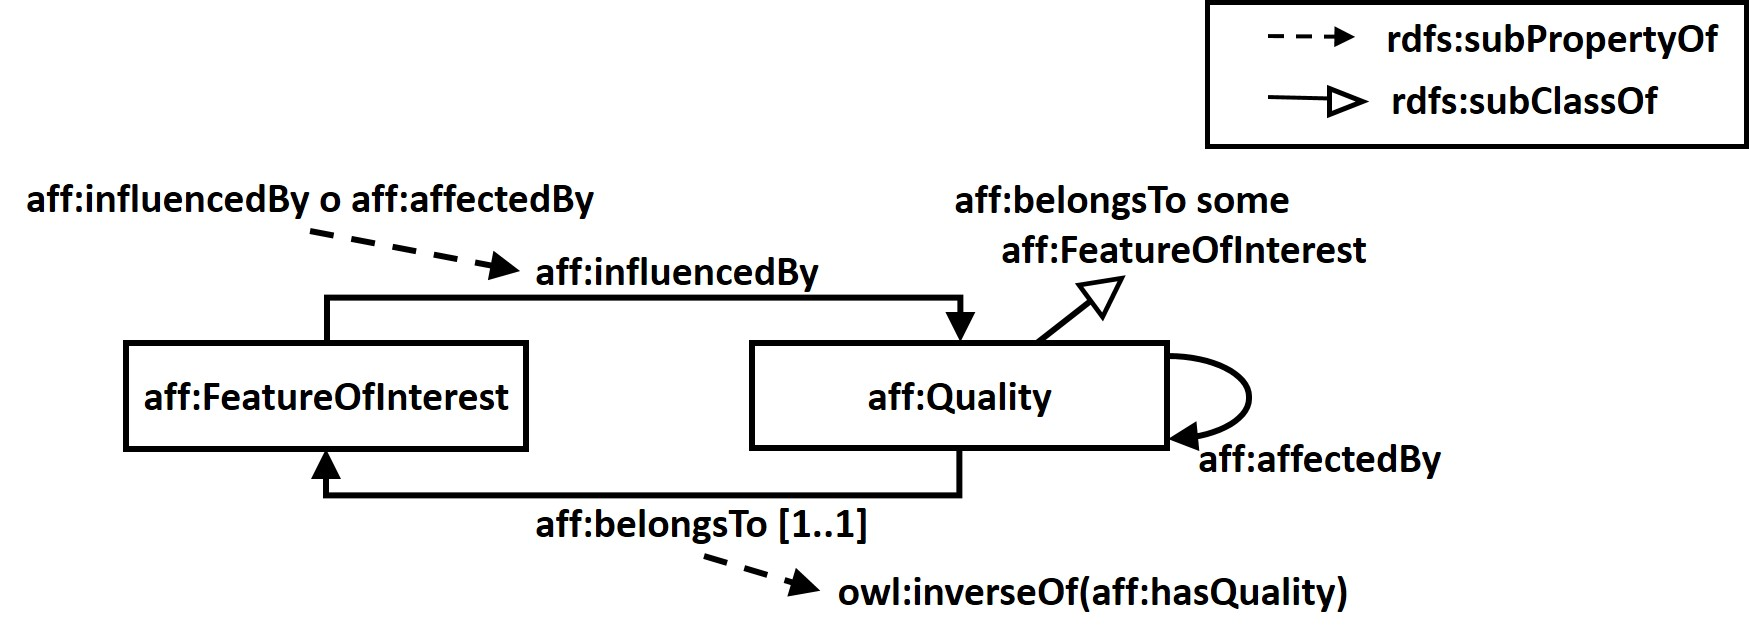
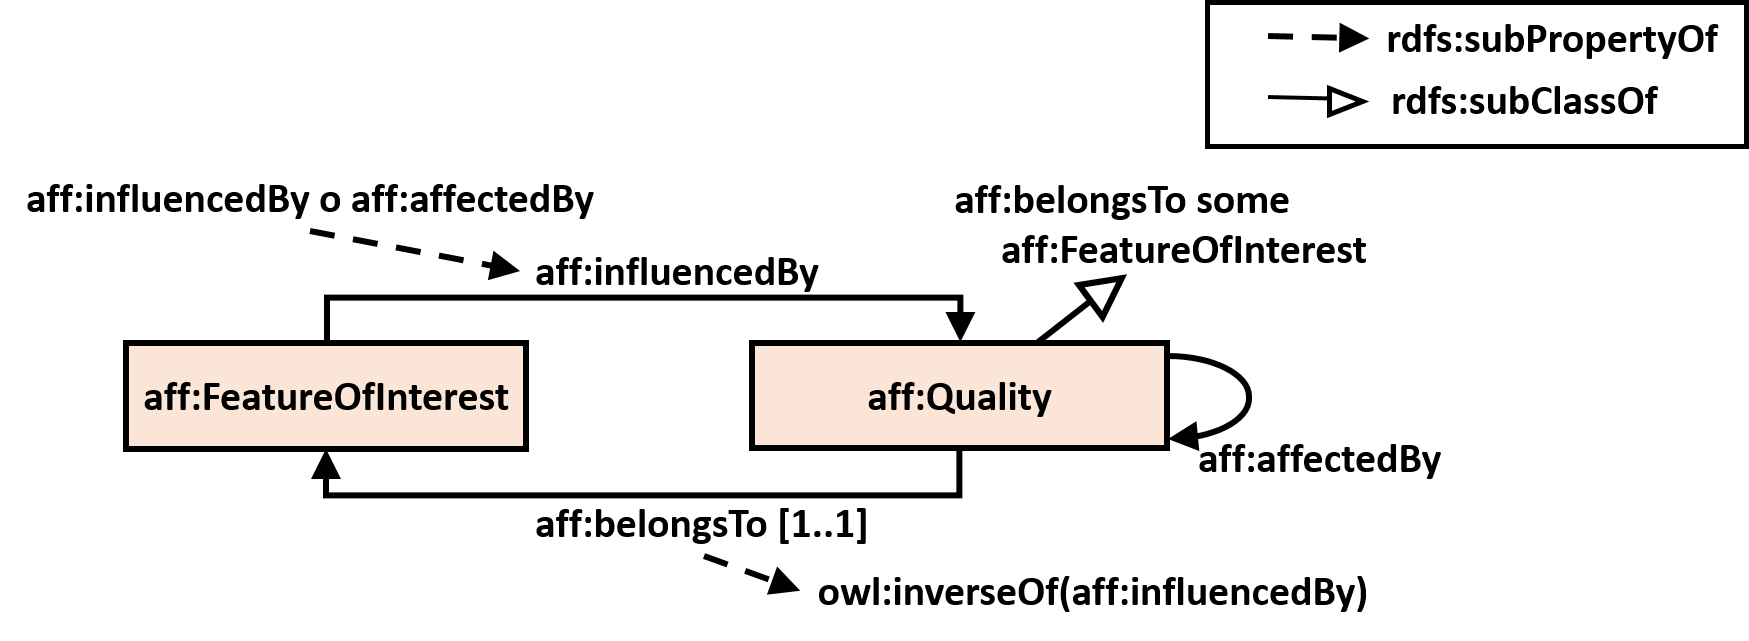
AffectedBy ODP documentation update

diff --git a/sections/overview-en.html b/sections/overview-en.html
@@ -1,28 +1,217 @@
-<h2 id="overv" class="list">AffectedBy ODP: Overview <span class="backlink"> back to <a href="#toc">ToC</a></span></h2>
+<h2 id="overv" class="list">RESPOND: Overview <span class="backlink"> back to <a href="#toc">ToC</a></span></h2>
 <span class="markdown">
 This ontology has the following classes and properties.</span>
 <h4>Classes</h4>
 <ul class="hlist">
    <li>
-      <a href="#FeatureOfInterest" title="https://w3id.org/affectedBy#FeatureOfInterest">FeatureOfInterest</a>
+      <a href="#ACFrequency" title="https://w3id.org/respond#ACFrequency">AC Frequency</a>
    </li>
    <li>
-      <a href="#Quality" title="https://w3id.org/affectedBy#Quality">Quality</a>
+      <a href="#AirConditioner" title="https://w3id.org/respond#AirConditioner">Air Conditioner</a>
+   </li>
+   <li>
+      <a href="#AlarmProperty" title="https://w3id.org/respond#AlarmProperty">Alarm</a>
+   </li>
+   <li>
+      <a href="#https://w3id.org/saref#Appliance" title="https://w3id.org/saref#Appliance">
+         <span>appliance</span>
+      </a>
+   </li>
+   <li>
+      <a href="#Boiler" title="https://w3id.org/respond#Boiler">Boiler</a>
+   </li>
+   <li>
+      <a href="#CommonArea" title="https://w3id.org/respond#CommonArea">Common Area</a>
+   </li>
+   <li>
+      <a href="#Current" title="https://w3id.org/respond#Current">Current</a>
+   </li>
+   <li>
+      <a href="#DayType" title="https://w3id.org/respond#DayType">Day Type</a>
+   </li>
+   <li>
+      <a href="#https://w3id.org/saref#Device" title="https://w3id.org/saref#Device">
+         <span>device</span>
+      </a>
+   </li>
+   <li>
+      <a href="#Dishwasher" title="https://w3id.org/respond#Dishwasher">Dishwasher</a>
+   </li>
+   <li>
+      <a href="#DomesticColdWaterConsumption"
+         title="https://w3id.org/respond#DomesticColdWaterConsumption">Domestic Cold Water Consumption</a>
+   </li>
+   <li>
+      <a href="#DomesticHotWaterConsumption"
+         title="https://w3id.org/respond#DomesticHotWaterConsumption">Domestic Hot Water Consumption</a>
+   </li>
+   <li>
+      <a href="#Dwelling" title="https://w3id.org/respond#Dwelling">Dwelling</a>
+   </li>
+   <li>
+      <a href="#http://purl.org/iot/vocab/m3-lite#Energy" title="http://purl.org/iot/vocab/m3-lite#Energy">
+         <span>energy</span>
+      </a>
+   </li>
+   <li>
+      <a href="#EnergyConsumption" title="https://w3id.org/respond#EnergyConsumption">Energy Consumption</a>
+   </li>
+   <li>
+      <a href="#EnergyProduction" title="https://w3id.org/respond#EnergyProduction">Energy Production</a>
+   </li>
+   <li>
+      <a href="#GasConsumption" title="https://w3id.org/respond#GasConsumption">Gas Consumption</a>
+   </li>
+   <li>
+      <a href="#Gateway" title="https://w3id.org/respond#Gateway">Gateway</a>
+   </li>
+   <li>
+      <a href="#HeatConsumption" title="https://w3id.org/respond#HeatConsumption">Heat Consumption</a>
+   </li>
+   <li>
+      <a href="#HeatPump" title="https://w3id.org/respond#HeatPump">Heat Pump</a>
+   </li>
+   <li>
+      <a href="#HeatingDevice" title="https://w3id.org/respond#HeatingDevice">Heating Device</a>
+   </li>
+   <li>
+      <a href="#Icon" title="https://w3id.org/respond#Icon">Icon</a>
+   </li>
+   <li>
+      <a href="#IT" title="https://w3id.org/respond#IT">IT</a>
+   </li>
+   <li>
+      <a href="#Lamp" title="https://w3id.org/respond#Lamp">Lamp</a>
+   </li>
+   <li>
+      <a href="#Laptop" title="https://w3id.org/respond#Laptop">Laptop</a>
+   </li>
+   <li>
+      <a href="#NetworkLinkStrength" title="https://w3id.org/respond#NetworkLinkStrength">Network Link Strength</a>
+   </li>
+   <li>
+      <a href="#Occupancy" title="https://w3id.org/respond#Occupancy">Occupancy</a>
+   </li>
+   <li>
+      <a href="#OnOffProperty" title="https://w3id.org/respond#OnOffProperty">On Off</a>
+   </li>
+   <li>
+      <a href="#PhotovoltaicSystem" title="https://w3id.org/respond#PhotovoltaicSystem">Photovoltaic System</a>
+   </li>
+   <li>
+      <a href="#http://purl.org/iot/vocab/m3-lite#Power" title="http://purl.org/iot/vocab/m3-lite#Power">
+         <span>power</span>
+      </a>
+   </li>
+   <li>
+      <a href="#ElectricConsumption" title="https://w3id.org/respond#ElectricConsumption">Power Consumption</a>
+   </li>
+   <li>
+      <a href="#PowerConsumption" title="https://w3id.org/respond#PowerConsumption">Power Consumption</a>
+   </li>
+   <li>
+      <a href="#PowerSupply" title="https://w3id.org/respond#PowerSupply">Power Supply</a>
+   </li>
+   <li>
+      <a href="#Printer" title="https://w3id.org/respond#Printer">Printer</a>
+   </li>
+   <li>
+      <a href="#https://w3id.org/saref#Property" title="https://w3id.org/saref#Property">
+         <span>property</span>
+      </a>
+   </li>
+   <li>
+      <a href="#RSSI" title="https://w3id.org/respond#RSSI">RSSI</a>
+   </li>
+   <li>
+      <a href="#https://w3id.org/bot#Space" title="https://w3id.org/bot#Space">
+         <span>space</span>
+      </a>
+   </li>
+   <li>
+      <a href="#StoveOven" title="https://w3id.org/respond#StoveOven">Stove Oven</a>
+   </li>
+   <li>
+      <a href="#TemperatureSetpoint" title="https://w3id.org/respond#TemperatureSetpoint">Temperature Setpoint</a>
+   </li>
+   <li>
+      <a href="#ThermoSolarSystem" title="https://w3id.org/respond#ThermoSolarSystem">Thermo Solar System</a>
+   </li>
+   <li>
+      <a href="#TumbleDryer" title="https://w3id.org/respond#TumbleDryer">Tumble Dryer</a>
+   </li>
+   <li>
+      <a href="#TV" title="https://w3id.org/respond#TV">TV</a>
+   </li>
+   <li>
+      <a href="#VOC" title="https://w3id.org/respond#VOC">VOC</a>
+   </li>
+   <li>
+      <a href="#Voltage" title="https://w3id.org/respond#Voltage">Voltage</a>
+   </li>
+   <li>
+      <a href="#WashingMachine" title="https://w3id.org/respond#WashingMachine">Washing Machine</a>
+   </li>
+   <li>
+      <a href="#WaterConsumption" title="https://w3id.org/respond#WaterConsumption">Water Consumption</a>
+   </li>
+   <li>
+      <a href="#WeatherForecastingService"
+         title="https://w3id.org/respond#WeatherForecastingService">Weather Forecasting Service</a>
+   </li>
+   <li>
+      <a href="#https://w3id.org/bot#Zone" title="https://w3id.org/bot#Zone">
+         <span>zone</span>
+      </a>
    </li>
 </ul><h4>Object Properties</h4><ul class="hlist">
    <li>
-      <a href="#affectedBy" title="https://w3id.org/affectedBy#affectedBy">affectedBy</a>
+      <a href="#connectsToInternetThrough"
+         title="https://w3id.org/respond#connectsToInternetThrough">connectsToInternetThrough</a>
    </li>
    <li>
-      <a href="#belongsTo" title="https://w3id.org/affectedBy#belongsTo">belongsTo</a>
+      <a href="#forecastsProperty" title="https://w3id.org/respond#forecastsProperty">forecasts Property</a>
    </li>
    <li>
-      <a href="#influencedBy" title="https://w3id.org/affectedBy#influencedBy">influencedBy</a>
+      <a href="#hasDataSendingMethod" title="https://w3id.org/respond#hasDataSendingMethod">has Data Sending Method</a>
+   </li>
+   <li>
+      <a href="#hasIcon" title="https://w3id.org/respond#hasIcon">has Icon</a>
+   </li>
+   <li>
+      <a href="#providesServiceToLocation"
+         title="https://w3id.org/respond#providesServiceToLocation">provides Service To Location</a>
+   </li>
+</ul><h4>Data Properties</h4><ul class="hlist">
+   <li>
+      <a href="#hasDBQuery" title="https://w3id.org/respond#hasDBQuery">hasDatabaseQuery</a>
+   </li>
+   <li>
+      <a href="#hasHouseholdMembersQuantity"
+         title="https://w3id.org/respond#hasHouseholdMembersQuantity">hasHouseholdMembersQuantity</a>
+   </li>
+   <li>
+      <a href="#hasInfluxDBQuery" title="https://w3id.org/respond#hasInfluxDBQuery">hasInfluxDBQuery</a>
+   </li>
+   <li>
+      <a href="#hasNetPlannedArea" title="https://w3id.org/respond#hasNetPlannedArea">hasNetPlannedArea</a>
+   </li>
+   <li>
+      <a href="#hasNetVolume" title="https://w3id.org/respond#hasNetVolume">hasNetVolume</a>
    </li>
 </ul><h4>Named Individuals</h4><ul class="hlist">
    <li>
-      <a href="#/" title="https://w3id.org/affectedBy/">
-         <span>https://w3id.org/affectedBy/</span>
+      <a href="#binary" title="https://w3id.org/respond#binary">binary</a>
+   </li>
+   <li>
+      <a href="#https://w3id.org/respond/" title="https://w3id.org/respond/">
+         <span>https://w3id.org/respond/</span>
       </a>
+   </li>
+   <li>
+      <a href="#ppb" title="https://w3id.org/respond#ppb">ppb</a>
+   </li>
+   <li>
+      <a href="#ppm" title="https://w3id.org/respond#ppm">ppm</a>
    </li>
 </ul>

diff --git a/sections/introduction-en.html b/sections/introduction-en.html
@@ -1,7 +1,25 @@
 <h2 id="intro" class="list">Introduction <span class="backlink"> back to <a href="#toc">ToC</a></span></h2>
 <p>The AffectedBy ODP consists of two classes <i>aff:FeatureOfInterest</i> and <i>aff:Quality</i>; and three properties <i>aff:influencedBy</i>, <i>aff:belongsTo</i>, and <i>aff:affectedBy</i>.</p>
 
-<p>This ODP is a reengineering of the <a href="https://ci.mines-stetienne.fr/seas/FeatureOfInterestOntology-1.0">SEAS Feature of Interest ontology </a>. The constraint on the property seas:derivesFrom to be symmetric is unnecessary and sometimes innapropriate. For instance, the temperature of a room may derive from the occupancy of the room; however, it is not necessary that the occupancy derives from the temperature of the room. A new property <i>aff:affectedBy</i> (released from the symmetric constraint) is defined in the AffectedBy ODP to replace the role of the property seas:derivesFrom. It can be asserted that seas:derivesFrom is sub property of <i>aff:affectedBy</i>. The class <i>aff:FeatureOfInterest</i> is equivalent to <i>seas:FeatureOfInterest</i>, and the class <i>seas:Property</i> is sub class of <i>aff:Quality</i>. Moreover, seas:hasProperty is sub property of <i>aff:influencedBy</i>, and <i>seas:isPropertyOf</i> is sub property of <i>aff:belongsTo</i>. Furthermore, <i>aff:belongsTo</i> is defined to be functional, to support the notion that a quality is intrinsic to the feature of interest (i.e., an entity) to which it belongs (according to the conceptualization in DUL); and it is asserted that every quality belongs to a feature of interest (<i>aff:Quality rdfs:subClassOf aff:belongsTo some aff:FeatureOfInterest</i>). </p>
+<p>The AffectedBy ODP defines the <i>aff:belongsTo</i> object property to define the relationship between qualities and features of interest. It is defined as functional to support the notion that a quality is intrinsic to the feature of interest to which it belongs, thus following the conceptualization in DUL. Additionally, the following axiom formalizes that every quality belongs to a feature of interest: <br>
+<i>aff:Quality &#8838; &#8707;aff:belongsTo.aff:FeatureOfInterest</i>
+
+</p>
+
+<p>Besides, the AffectedBy ODP introduces the <i>aff:affectedBy</i> object property to relate a quality that is affected by another quality and it is declared to be transitive.</p>
+
+<p>The <i>aff:influencedBy</i> object property is also introduced to relate features of interest and qualities. The next property chain axiom is included in its definition:<br>
+<i>aff:influencedBy &#9900; aff:affectedBy &#8838; aff:influencedBy</i>
+</p>
+
+<p>Finally, the property axiom representing that the <i>aff:belongsTo</i> object property is a subproperty of the inverse of the <i>aff:influencedBy</i> object property is introduced:<br>
+<i>aff:belongsTo &#8838; inverse(aff:influencedBy)</i>
+</p>
+
+<p>Axioms included in the AffectedBy ODP provide inferences that allow answering the formulated CQs properly. Note that only triples with predicates <i>aff:belongsTo</i> and <i>aff:affectedBy</i> need to be asserted, the remaining triples are inferred with the provided property axioms.</p>
+
+
+
 
 <p>Finally, the object chain axiom <i>aff:influencedBy o aff:affectedBy rdfs:subPropertyOf aff:influencedBy</i> is asserted.</p>
 <div id="namespacedeclarations">

diff --git a/sections/description-en.html b/sections/description-en.html
@@ -9,14 +9,14 @@
 <p>This section shows the specification of the AffectedBy ODP requirements in the form of Competency Questions:</p>
 
 <ul>
-<li>CQ1: What are the properties/qualities that influence a feature of interest?</li>
-<li>CQ2: What are the properties/qualities that affect a given property of a
+<li>CQ1: What are the qualities that influence a feature of interest?</li>
+<li>CQ2: What are the qualities that affect a given quality of a
 feature of interest?</li>
-<li>CQ3: Which feature of interest does a given property/quality belongs to?</li>
+<li>CQ3: Which feature of interest does a given quality belongs to?</li>
 </ul>
 
 <h3 id="desc-Inst" class="list">Instantiating the AffectedBy ODP <span class="backlink"> back to <a href="#toc">ToC</a></span></h3>
 
-<p>This section shows an example of instantiating the AffectedBy ODP. Let us consider the LR03 lecture room as a feature of interest: a lecture room located on the ground floor of a building, and with a large window that overlooks the road that passes near the building. Some properties that influence LR03 are: the area of the lecture room, the number of seats available or the quality of comfort at any given time. The quality of comfort in this lecture room is affected by the room temperature and the nearby outdoor noise. In turn, the temperature of LR03 is affected by the number of people present in the lecture room, the humidity of the lecture room, and the intensity of solar radiation received through the room window. Regarding the impact of outdoor noise, it is affected by the sound insulation factor of the room. Lastly, the received solar radiation is affected by the azimuth (i.e. orientation) of the lecture room window. Figure 2 represents this example (for the sake of simplicity, the <i>rdf:type</i> relationships are not shown)</p>
+<p>This section shows an example of instantiating the AffectedBy ODP. Let us consider a problem that deals with ensuring the thermal comfort of a lecture room located in the ground floor of a building. This room has a large window that overlooks the road that passes near the building and some qualities of the room include its area, the number of seats available or the quality of comfort at any given time. The quality of comfort in this room is affected by the room temperature and the nearby outdoor noise. In turn, the temperature of the room is affected by the number of people present in the room, the humidity of the room, and the intensity of the solar radiation received through the room window. Regarding the impact of the outdoor noise, it is affected by the sound insulation factor of the room. Lastly, the received solar radiation is affected by the azimuth (i.e. orientation) of the room window. Figure 2 represents this example (for the sake of simplicity, the <i>rdf:type</i> relationships are not shown)</p>
 
-<center><img src="resources/images/AffectedByInst.png" alt="Lecture Room 03 description example." width="75%"> <figcaption>Figure 2. - Lecture Room 03 description example.</figcaption></center>
+<center><img src="resources/images/AffectedByInst.png" alt="Lecture Room description example." width="75%"> <figcaption>Figure 2. - Lecture Room description example.</figcaption></center>

diff --git a/index-en.html b/index-en.html
@@ -60,7 +60,7 @@ function loadTOC(){
 <div class="head">
 <div style="float:right">language <a href="index-en.html"><b>en</b></a> </div>
 <h1>AffectedBy ODP</h1>
-<h2>Release  2018-11-28</h2>
+<h2>Last Update: 2020-11-17</h2>
 
 
 <dl>
